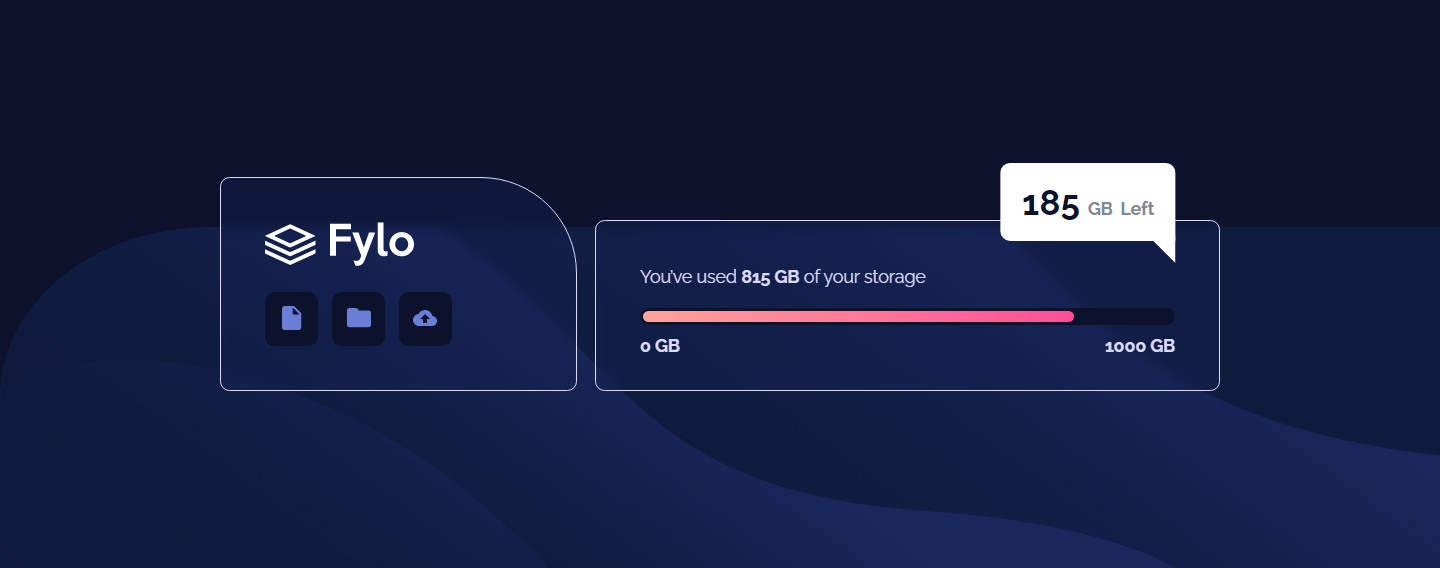
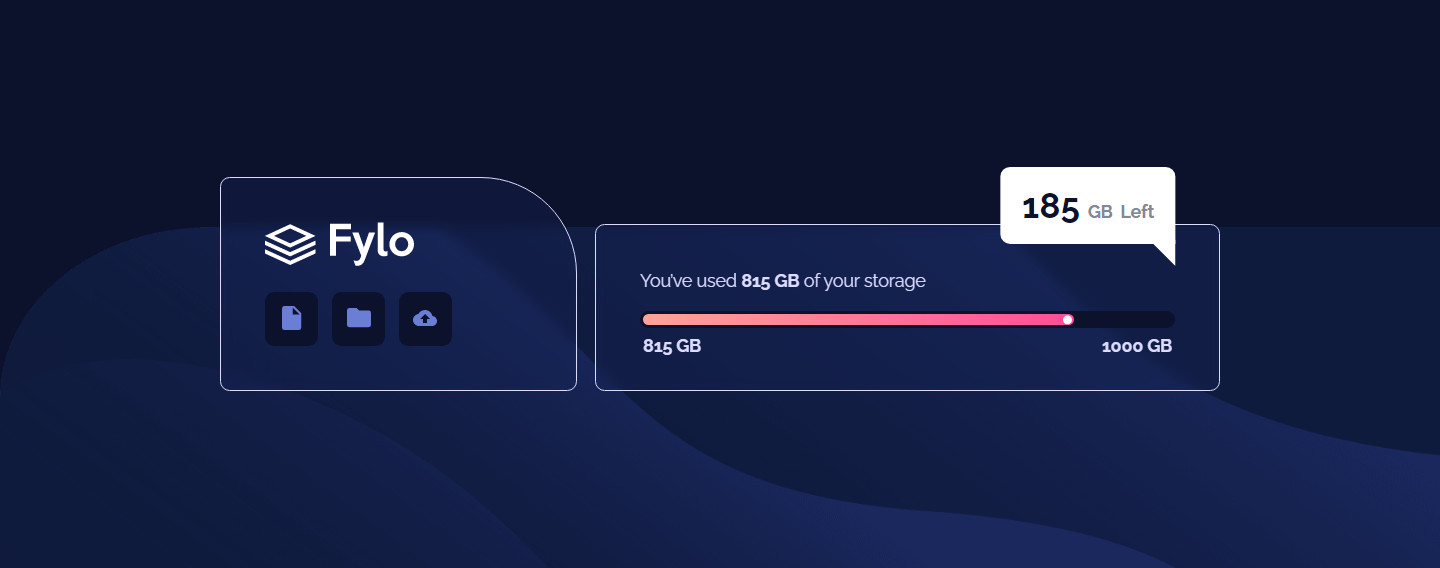
The old progress bar has been removed and a new one has been introduced.

diff --git a/fylo-data-storage-component-master/src/scss/style.scss b/fylo-data-storage-component-master/src/scss/style.scss
@@ -21,22 +21,42 @@ $radius: 0.6rem;
     padding: 0;
 }
 
-progress {
-    appearance: none;
-}
-::-webkit-progress-bar {
-    border-radius: 3rem;
+.progress-bar {
+    position: relative;
+    inline-size: 100%;
+    block-size: 1em;
     background-color: var(--c-secondary-bg);
     border: 3px solid var(--c-secondary-bg);
-}
-::-webkit-progress-value {
-    border-radius: inherit;
-    background-image: linear-gradient(
-        to right,
-        var(--c-gradient-1),
-        var(--c-gradient-2)
-    );
-    transition: width 2s;
+    border-radius: 3rem;
+    > .progress-value {
+        position: relative;
+        overflow: hidden;
+        background-image: linear-gradient(
+            to right,
+            var(--c-gradient-1),
+            var(--c-gradient-2)
+        );
+        border-radius: inherit;
+        inline-size: 0;
+        block-size: 100%;
+        animation: progress 2s 0.5s forwards;
+        @keyframes progress {
+            to {
+                inline-size: ((815 * 100) / 1000) * 1%;
+            }
+        }
+        &::after {
+            content: "";
+            position: absolute;
+            inset-inline-end: 2px;
+            inset-block-start: 50%;
+            transform: translateY(-50%);
+            block-size: 80%;
+            aspect-ratio: 1;
+            background-color: white;
+            border-radius: 50%;
+        }
+    }
 }
 
 a {
@@ -141,25 +161,23 @@ main {
                     margin-block-end: 1em;
                     inline-size: max-content;
                 }
-                progress {
+                .progress-bar {
                     margin-block-end: 2.5em;
-                    inline-size: 100%;
-                    position: relative;
 
                     &::before,
                     &::after {
-                        font-weight: 700;
                         position: absolute;
                         inset-block-start: 100%;
                         margin-block-start: 0.5em;
+                        font-weight: 700;
                     }
 
                     &::before {
-                        content: "0 GB";
+                        content: attr(data-value) " GB";
                         inset-inline-start: 0;
                     }
                     &::after {
-                        content: "1000 GB";
+                        content: attr(data-value-max) " GB";
                         inset-inline-end: 0;
                     }
                 }
@@ -196,7 +214,7 @@ main {
                 align-self: end;
                 flex-grow: 4;
                 > {
-                    progress {
+                    .progress-bar {
                         margin-block-end: 1em;
                     }
                     .remainder-storage {

diff --git a/fylo-data-storage-component-master/dist/css/style.css b/fylo-data-storage-component-master/dist/css/style.css
@@ -17,23 +17,44 @@
   padding: 0;
 }
 
-progress {
-  -webkit-appearance: none;
-     -moz-appearance: none;
-          appearance: none;
-}
-
-::-webkit-progress-bar {
-  border-radius: 3rem;
+.progress-bar {
+  position: relative;
+  inline-size: 100%;
+  block-size: 1em;
   background-color: var(--c-secondary-bg);
   border: 3px solid var(--c-secondary-bg);
+  border-radius: 3rem;
 }
-
-::-webkit-progress-value {
-  border-radius: inherit;
+.progress-bar > .progress-value {
+  position: relative;
+  overflow: hidden;
   background-image: linear-gradient(to right, var(--c-gradient-1), var(--c-gradient-2));
-  -webkit-transition: width 2s;
-  transition: width 2s;
+  border-radius: inherit;
+  inline-size: 0;
+  block-size: 100%;
+  -webkit-animation: progress 2s 0.5s forwards;
+          animation: progress 2s 0.5s forwards;
+}
+@-webkit-keyframes progress {
+  to {
+    inline-size: 81.5%;
+  }
+}
+@keyframes progress {
+  to {
+    inline-size: 81.5%;
+  }
+}
+.progress-bar > .progress-value::after {
+  content: "";
+  position: absolute;
+  inset-inline-end: 2px;
+  inset-block-start: 50%;
+  transform: translateY(-50%);
+  block-size: 80%;
+  aspect-ratio: 1;
+  background-color: white;
+  border-radius: 50%;
 }
 
 a {
@@ -139,25 +160,23 @@ main > section.storage-section > p {
   inline-size: -moz-max-content;
   inline-size: max-content;
 }
-main > section.storage-section > progress {
+main > section.storage-section > .progress-bar {
   -webkit-margin-after: 2.5em;
           margin-block-end: 2.5em;
-  inline-size: 100%;
-  position: relative;
 }
-main > section.storage-section > progress::before, main > section.storage-section > progress::after {
-  font-weight: 700;
+main > section.storage-section > .progress-bar::before, main > section.storage-section > .progress-bar::after {
   position: absolute;
   inset-block-start: 100%;
   -webkit-margin-before: 0.5em;
           margin-block-start: 0.5em;
+  font-weight: 700;
 }
-main > section.storage-section > progress::before {
-  content: "0 GB";
+main > section.storage-section > .progress-bar::before {
+  content: attr(data-value) " GB";
   inset-inline-start: 0;
 }
-main > section.storage-section > progress::after {
-  content: "1000 GB";
+main > section.storage-section > .progress-bar::after {
+  content: attr(data-value-max) " GB";
   inset-inline-end: 0;
 }
 main > section.storage-section > .remainder-storage {
@@ -193,7 +212,7 @@ main > section.storage-section > .remainder-storage > strong {
     align-self: end;
     flex-grow: 4;
   }
-  main > section.storage-section > progress {
+  main > section.storage-section > .progress-bar {
     -webkit-margin-after: 1em;
             margin-block-end: 1em;
   }

diff --git a/fylo-data-storage-component-master/dist/index.html b/fylo-data-storage-component-master/dist/index.html
@@ -34,7 +34,13 @@
             </section>
             <section class="storage-section">
                 <p>You’ve used <strong>815 GB</strong> of your storage</p>
-                <progress value="815" max="1000"></progress>
+                <div
+                    class="progress-bar"
+                    data-value="815"
+                    data-value-max="1000"
+                >
+                    <div class="progress-value"></div>
+                </div>
                 <div class="remainder-storage">
                     <strong>185</strong> GB Left
                 </div>
